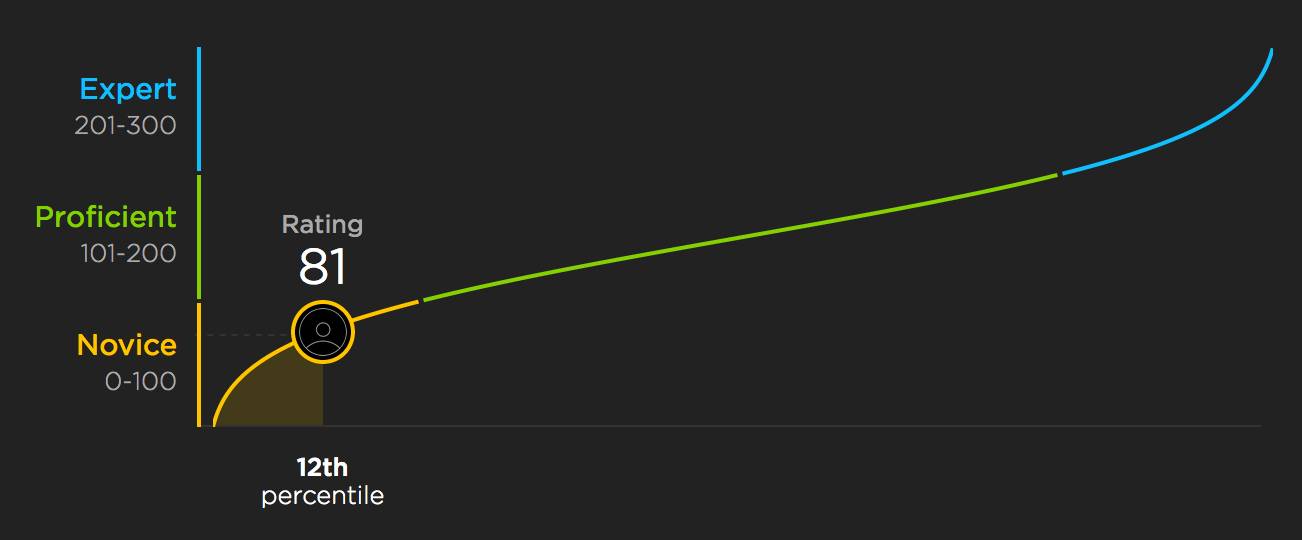
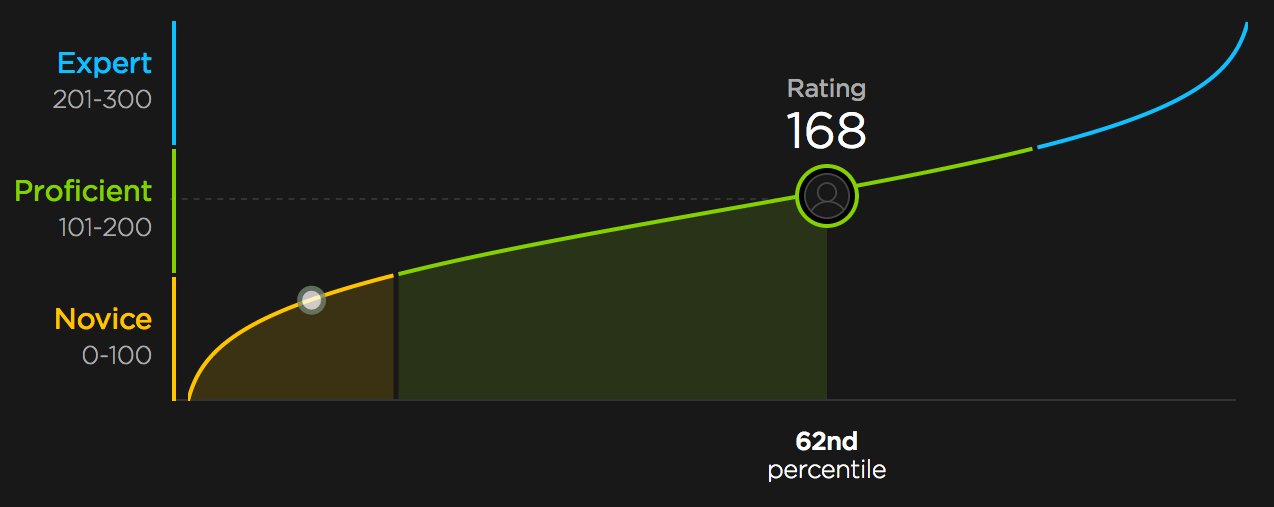
Add files via upload

diff --git a/index.html b/index.html
@@ -65,9 +65,13 @@ table, th, td {
 </tr>
 <td><img src="images/CSS.png" height="45"></td><td>195</td><td>Proficient</td><td>78th percentile</td><td><img src="images/cssRate.png" width="165"></td>
 </tr>
-<td><img src="images/jsLogo.png" height="45"></td><td>81</td><td>Novice</td><td>12th percentile</td><td><img src="images/JavaScriptRate.png" width="165"></td>
+<td><img src="images/jsLogo.png" height="45"></td><td>168</td><td>Proficient</td><td>62nd percentile</td><td><img src="images/JavaScriptRate.png" width="165"></td>
 </tr>
 <td><img src="images/jquery.png" height="45"></td><td>28</td><td>Novice</td><td>1st percentile</td><td><img src="images/jqueryRate.png" width="165"></td>
+</tr>
+<td><img src="images/python.png" height="45"></td><td>28</td><td>Novice</td><td>1st percentile</td><td><img src="images/jqueryRate.png" width="165"></td>
+</tr>
+<td><img src="images/docker.png" height="45"></td><td>97</td><td>Novice</td><td>18th percentile</td><td><img src="images/dockerRate.png" width="165"></td>
 
 </table>
 
@@ -79,7 +83,9 @@ table, th, td {
 	<ul id = "edu">
 	<li><a href="images/unoffTran.jpg">111 credit hours</a></li></td> <!--University of New Mexico-->
 	</ul>
-	<td><a href="http://www.unm.edu">University of New Mexico</a></td></tr>
+	<td><a href="http://www.unm.edu">University of New Mexico</a></td>
+	<td><img src="images/unmLogo.jpeg" width ="165"></td>
+	</tr>
 	
 	
 	
@@ -87,19 +93,33 @@ table, th, td {
 	<br>
 	
 <li><b>Business and Professional</b></li>
+<table class="indent">
+	<tr><td>
 	<ul id = "certs">
-	<li>Executive Leadership</li> <!--Project Management Institute-->
-	<li>Developing Executive Presence</li><!--Lynda.com-->
-	<li><a href="pages/Wharton.html">Accounting Certificate</a></li> <!--University of Pennsylvania, Wharton-->
+	<li>Executive Leadership</li></td><td>Project Management Institute</td>
+	</tr>
+	<tr><td><ul id = "certs"><li>Developing Executive Presence</li></td><td>Lynda.com</td>
+	</tr>
+	<tr><td><ul id = "certs"><li><a href="pages/Wharton.html">Accounting Certificate</a></li></td><td>University of Pennsylvania, Wharton</td>
+	</tr>
 	</ul><br>
+	</table>
 	
 <li><b>Marketing and Media</b></li>
-	<ul id = "certs">
-	<li><a href="pages/Wharton.html">Certificate in Marketing</a></li> <!--University of Pennsylvania, Wharton-->
-	<li><a href="pages/Wharton.html">Certificate in Viral Marketing</a></li> <!--University of Pennsylvania, Wharton-->
-	<li>Facebook Advertising Fundamentals</li>
-	<li>Creating a Short Film: 01 Producing</li>
-	</ul><br>
+<table class="indent">
+	<tr><td><ul id = "certs">
+	<li><a href="pages/Wharton.html">Certificate in Marketing</a></li></td><td>University of Pennsylvania, Wharton</td>
+	</tr>
+	<tr><td><ul id = "certs">
+	<li><a href="pages/Wharton.html">Certificate in Viral Marketing</a></li></td><td>University of Pennsylvania, Wharton</td>
+	</tr>
+	<tr><td><ul id = "certs">
+	<li>Facebook Advertising Fundamentals</li></td><td><a href="http://www.lynda.com">Lynda.com</a></td>
+	</tr>
+	<tr><td><ul id = "certs">
+	<li>Creating a Short Film: 01 Producing</li><td><a href="http://www.lynda.com">Lynda.com</a></td>
+	</ul></tr><br>
+	</table>
 	
 <li><b>Vocational Training</b></li>
 	<ul id="certs">

diff --git a/style/main.css b/style/main.css
@@ -27,6 +27,19 @@ text-align : right;
 padding : 0px 0px 7px 0px;
 }
 
+#titlead {
+text-align : right;
+padding: 3px 315px 0px 0px;
+background:url(../images/goatTakedown.gif);
+background-repeat: no-repeat;
+background-size : cover;
+position : static;
+left:0px;
+top:0px;
+opacity : 0.71;
+box-shadow: 0px 0px 5px 0px;
+}
+
 #titleed {
 text-align : right;
 padding: 3px 315px 0px 0px;
@@ -239,5 +252,4 @@ list-style-image : url(../images/person.png);
 .audit {
 cursor : default;
 }
-
 

diff --git a/jscript/navBar.js b/jscript/navBar.js
@@ -1,0 +1,19 @@
+$(function() {
+
+$(".rightLink").mouseover (function() {
+	$(this).css("opacity", "73").fadeIn(125, 125);
+	});
+		
+$(".rightLink").mouseover (function() {
+	$(this).css("text-shadow", "0 0 1em lightsteelblue").fadeIn();
+	});
+	
+$(".rightLink").mouseleave (function() {
+    $( this ).css( "text-shadow", "none" );
+  });
+  
+$(".rightLink").mouseleave (function() {
+    $( this ).css( "opacity", "0.3" );
+  });
+
+});

diff --git a/style/test.css b/style/test.css
@@ -1,0 +1,24 @@
+
+.pause {
+color:white;
+text-align:right;
+background: red;
+background-repeat: no-repeat;
+background-size : cover;
+}
+
+.play {
+color:white;
+text-align:right;
+background: green;
+background-repeat: no-repeat;
+background-size : cover;
+}
+
+.rightLink {
+color:black;
+text-align:right;
+background: green;
+background-repeat: no-repeat;
+background-size : cover;
+}

diff --git a/jscript/javascript.js b/jscript/javascript.js
@@ -1,0 +1,7 @@
+<script src= "../jscript/jquery3.1.1.js"></script>
+
+$document.ready(function(){
+
+$("")
+
+});
